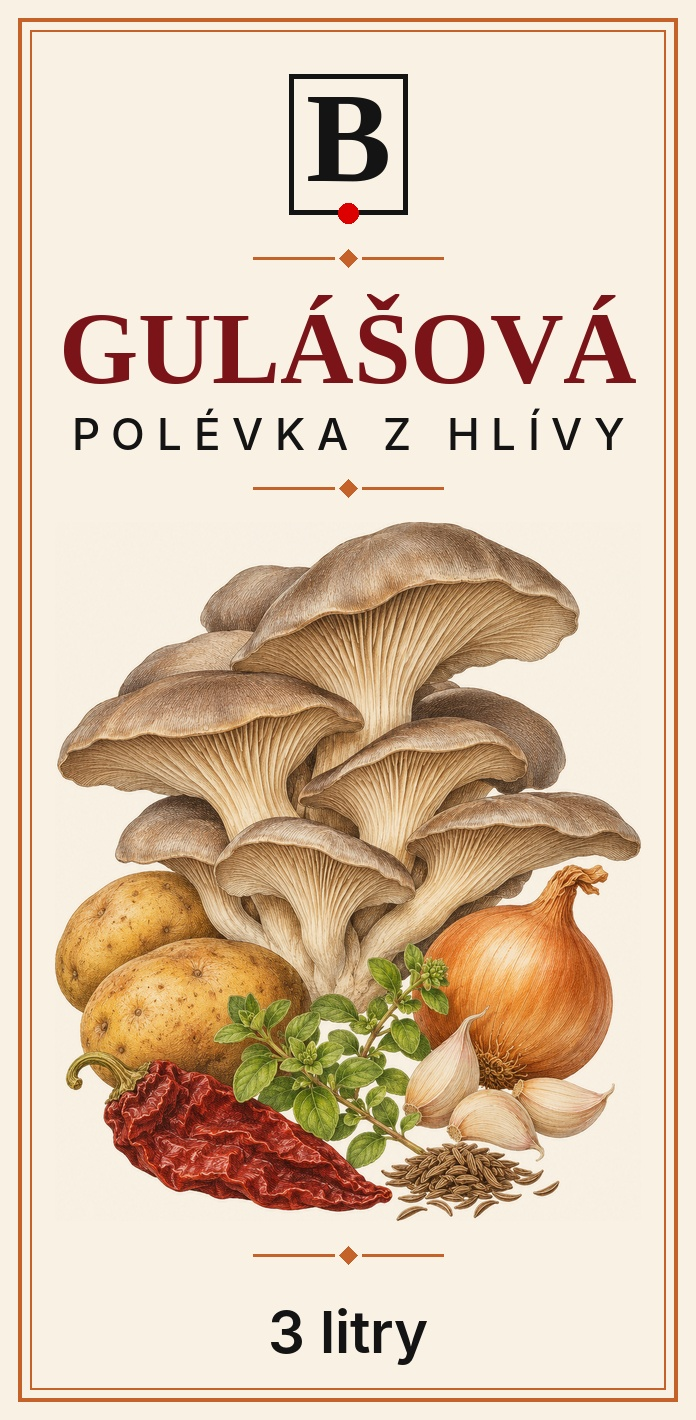
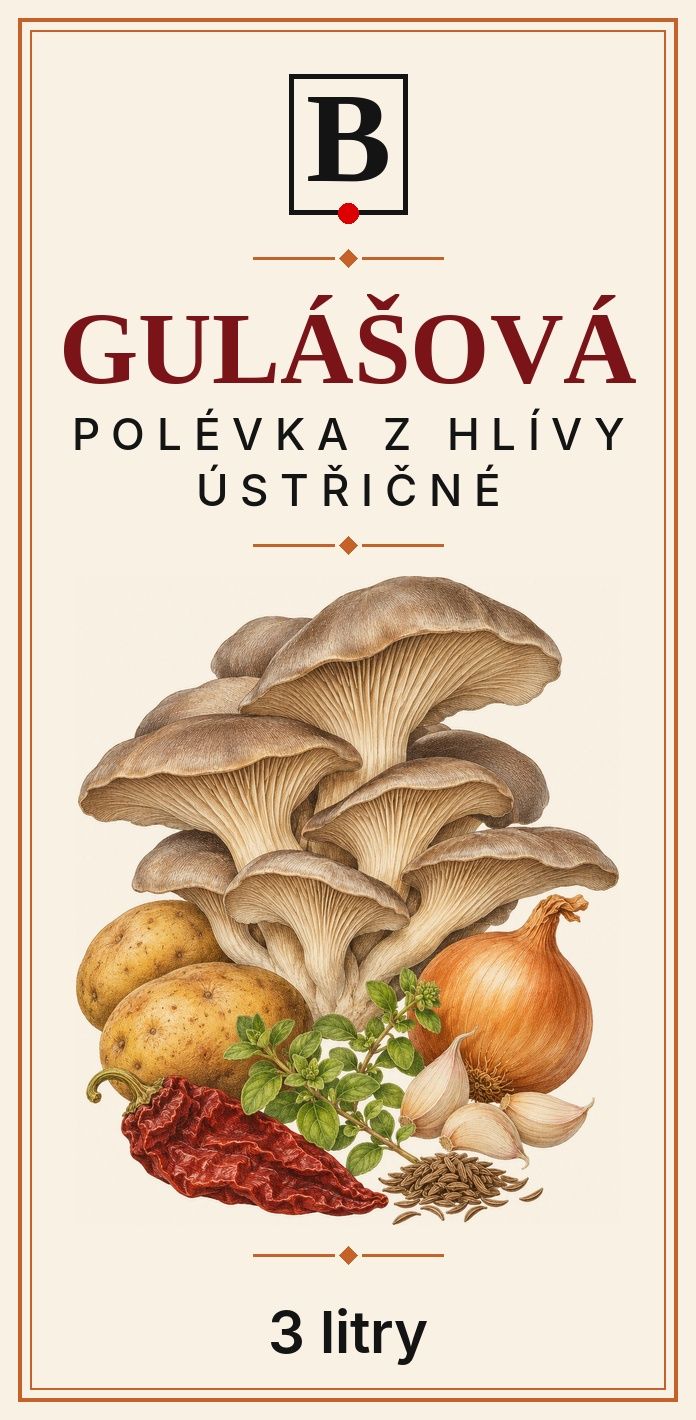
Etikety: přední etiketa Kulajdy (#242)
* Etikety: přední etiketa Kulajdy

Claude-Session: https://claude.ai/code/session_016QL8fwi582oSosBu6SYFuT

* Etikety: Kulajda světlejší ČB, Gulášová s plným názvem z hlívy ústřičné

Claude-Session: https://claude.ai/code/session_016QL8fwi582oSosBu6SYFuT

---------

Changed region(s): [[0.0603, 0.3099, 0.9353, 0.8676]]

diff --git a/dashboard/lib/etikety/manifest.ts b/dashboard/lib/etikety/manifest.ts
@@ -29,15 +29,18 @@ export const ETIKETY_MANIFEST: Record<string, string[]> = {
   ],
   "polevky/predni-barevne": [
     "dynova-polevka.jpg",
-    "gulasova-polevka-z-hlivy-ustricne.jpg"
+    "gulasova-polevka-z-hlivy-ustricne.jpg",
+    "kulajda.jpg"
   ],
   "polevky/predni-cernobile": [
     "dynova-polevka.png",
-    "gulasova-polevka-z-hlivy-ustricne.png"
+    "gulasova-polevka-z-hlivy-ustricne.png",
+    "kulajda.png"
   ],
   "polevky/predni-cervenocerne": [
     "dynova-polevka.png",
-    "gulasova-polevka-z-hlivy-ustricne.png"
+    "gulasova-polevka-z-hlivy-ustricne.png",
+    "kulajda.png"
   ],
   "polevky/slozeni": [
     "Dynova-polevka.png",
